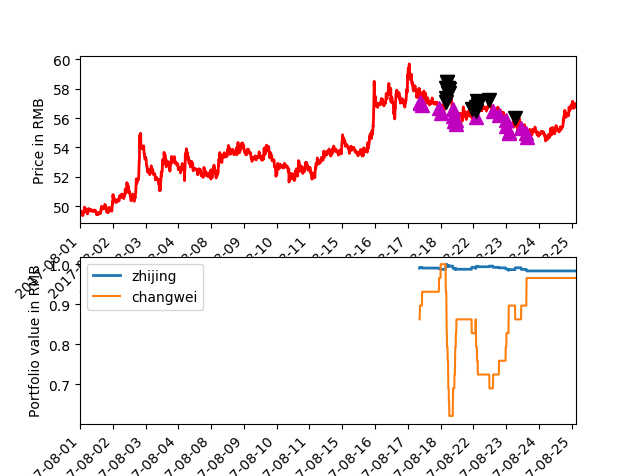
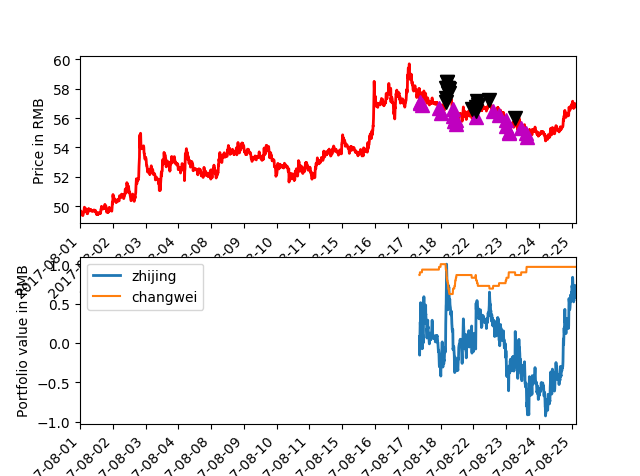
修正策略结果汇报

diff --git a/python_strategy/backtest_runner.py b/python_strategy/backtest_runner.py
@@ -92,7 +92,7 @@ class BackTestPolicy:
                         strategy.data.set_code(code, day, t)
                         strategy.Run()
                 if self.mode == self.enum.hisdat_mode:
-                    strategy.data.set_code(code, day, 900)
+                    strategy.data.set_code(code, day, 900-1)
                     strategy.Run()
     def _TravlDay(self, start_day, end_day):
         """遍历天， 开始时间， 结束时间"""
@@ -125,12 +125,13 @@ class BackTestPolicy:
         bars = bars.dropna()
         df = policy._getAccount().ChengJiao()
         df_zhijing = policy._getAccount().ZhiJing()
+        init_money = df_zhijing.iloc[0]['资产']
         df_zhijing = df_zhijing[bars.index[0]:]
         df_changwei = policy._getAccount().ChengJiao()
         cols = ['买卖标志','委托数量']
-        df_flag = df_changwei[cols[0]].map(lambda x: x == '证券卖出' and 1 or -1)
+        df_flag = df_changwei[cols[0]].map(lambda x: x == '证券卖出' and -1 or 1)
         df_changwei[cols[1]] *= df_flag
-        changwei = stock.GuiYiHua(df_changwei[cols[1]].cumsum())
+        changwei = df_changwei[cols[1]].cumsum()
         for i in range(len(df)):
             index = df.index[i]
             bSell = bool(df.iloc[i]['买卖标志']=='证券卖出')
@@ -142,9 +143,12 @@ class BackTestPolicy:
         df_zhijing['changwei'] = changwei
         bars = bars.join(df_zhijing)
         bars = bars.fillna(method='pad')
-        
+        #同步价格的动态总资产
+        bars['资产'] = bars['可用']+bars['changwei']*bars['p']
+        zhican = (bars['资产']-init_money)/init_money*100
         ui.TradeResult_Boll(pl, bars, trade_positions, \
-                            stock.GuiYiHua(bars['资产']), stock.GuiYiHua(bars['changwei']))
+                            stock.GuiYiHua(zhican),\
+                            stock.GuiYiHua(bars['changwei']))
     def SetStockCodes(self, codes):
         """对这些codes进行回测"""
         self.codes = codes

diff --git a/python_strategy/account.py b/python_strategy/account.py
@@ -103,10 +103,16 @@ class LocalAcount(AccountDelegate):
         org_num = int(self.df_stock['库存数量'][self.df_stock['证券代码'] == code].tolist()[0])
         org_price = float(self.df_stock['买入均价'][self.df_stock['证券代码'] == code].tolist()[0])
         num *= bSell and -1 or 1
-        new_price = (org_num*org_price+num*price)/(org_num+num)
+        if org_num + num > 0:
+            new_price = (org_num*org_price+num*price)/(org_num+num)
+        else:
+            new_price = 0
         self.df_stock['买入均价'][self.df_stock['证券代码'] == code] = new_price
         #需要加上手续费作为成本
-        new_price = (org_num*org_price+price*num - price*abs(num)*sxf())/(org_num+num)
+        if org_num+num > 0:
+            new_price = (org_num*org_price+price*num - price*abs(num)*sxf())/(org_num+num)
+        else:
+            new_price = 0
         self.df_stock['参考成本价'][self.df_stock['证券代码'] == code] = new_price
         self.df_stock['当前价'][self.df_stock['证券代码'] == code] = price
     def _insertZhiJing(self,code, price, num, bSell, date):
